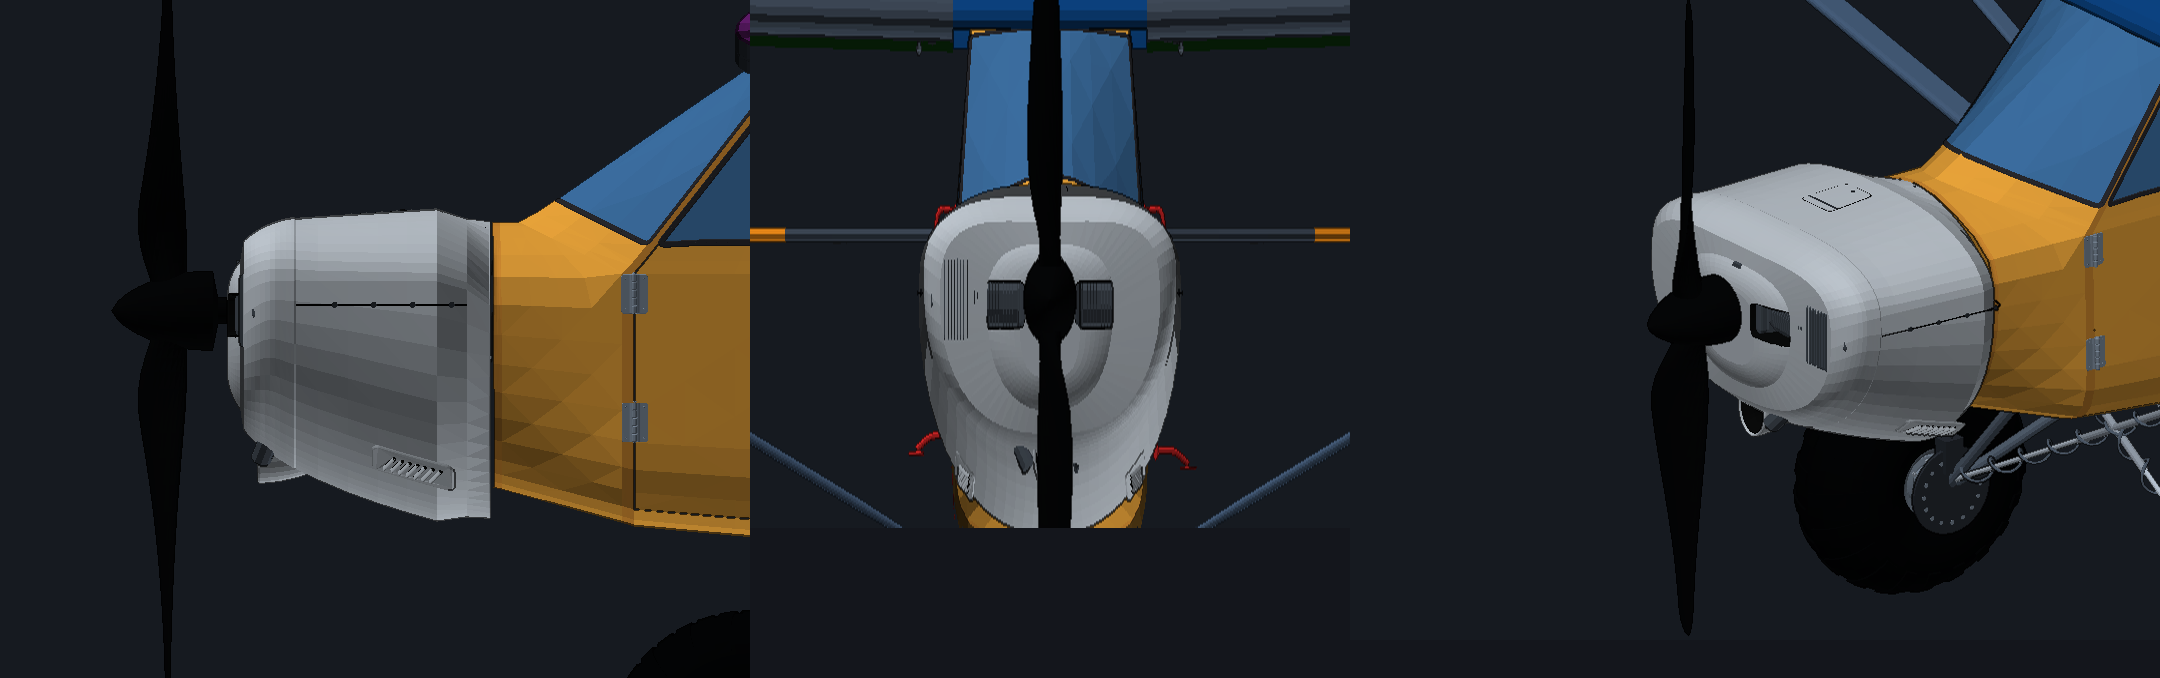
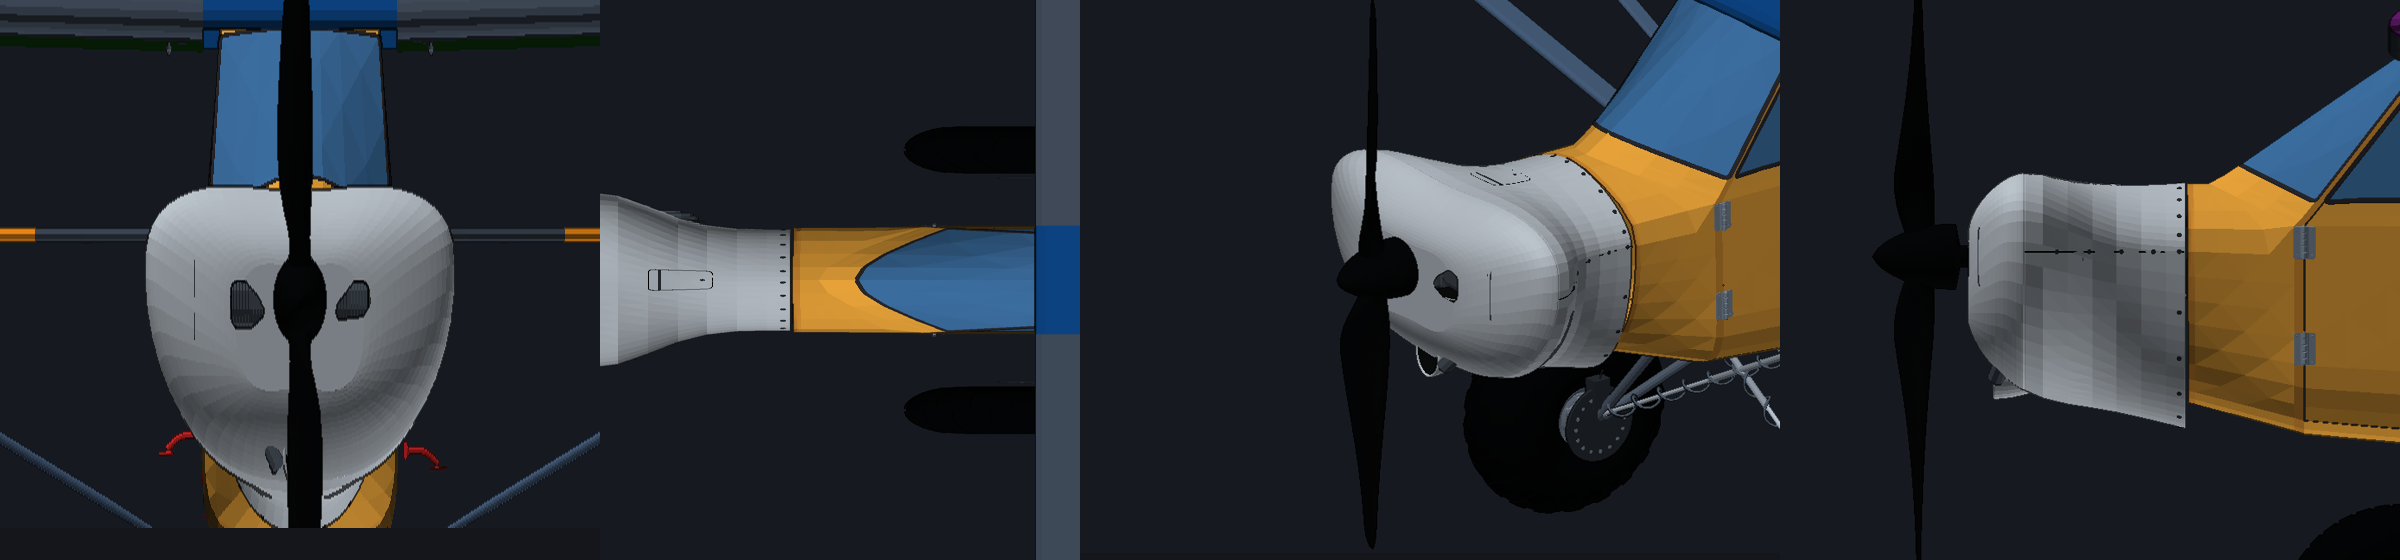
PRACTICAL-CERF: the SS's cowl redone - the built-in bulges only, placed and sized over the CC340's heads (the streamlined cheeks and gills withdrawn, the user)
Claude-Session: https://claude.ai/code/session_01RorUqEo5jjoypYh737rhEx

diff --git a/flyDiy/reports/evidence/REAL-CHECK-2026-11-09/README.md b/flyDiy/reports/evidence/REAL-CHECK-2026-11-09/README.md
@@ -294,7 +294,16 @@ at 2.3 m/s, and the heading swung 100° with the tyres scrubbing sideways.
 - **The editor:** a "Brakes" tile row (`brkHold`) that also sets the drawn brake.
 - **Not yet given to any build:** the Jodel on drums against its book's 150 m is the first test.
 
-**The cowl.** The CC340's four heads poked through the Rotax-sized cowl (`carbon_cub_ss_cowl_before_quick.png`). Now
-(`carbon_cub_ss_cowl_quick.png`, quickshot: flat colours, no livery):
-- the cheeks are 0.17 m proud (from 0.06), streamlined, centred over the heads, full length;
-- the side gills of the cowl branch, 7 slanted slots on each flank.
+**The cowl.** The CC340's four heads poked through the Rotax-sized cowl (`carbon_cub_ss_cowl_before_quick.png`). A first
+pass with streamlined cheeks and the cowl branch's gills was rejected by the user. Redone from the original cowl with the
+built-in bulges only, placed and sized until no head shows (`carbon_cub_ss_cowl_quick.png`, quickshot: flat colours, no
+livery):
+
+| bulge row | was | now |
+|---|---|---|
+| `lobeAmp` (size) | 0.06 m | 0.28 m |
+| `lobeT` (station) | 0.45 | 0.74 |
+| `lobeTSig` (length) | 0.35 | 0.30 |
+| `lobeSig` (spread) | 53° | 58° |
+
+Nothing else on the cowl changed (the real one's are near-separate tubes fused to the cowl; emulated by the bulging alone).
